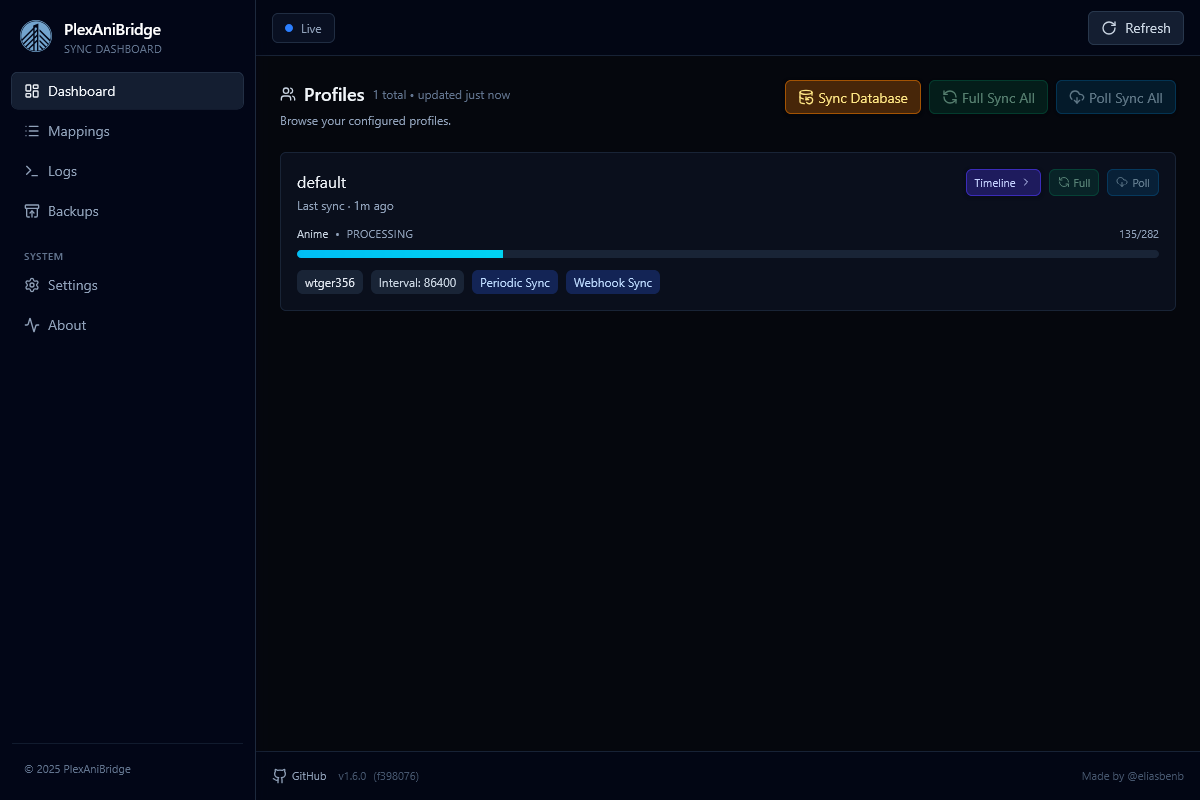
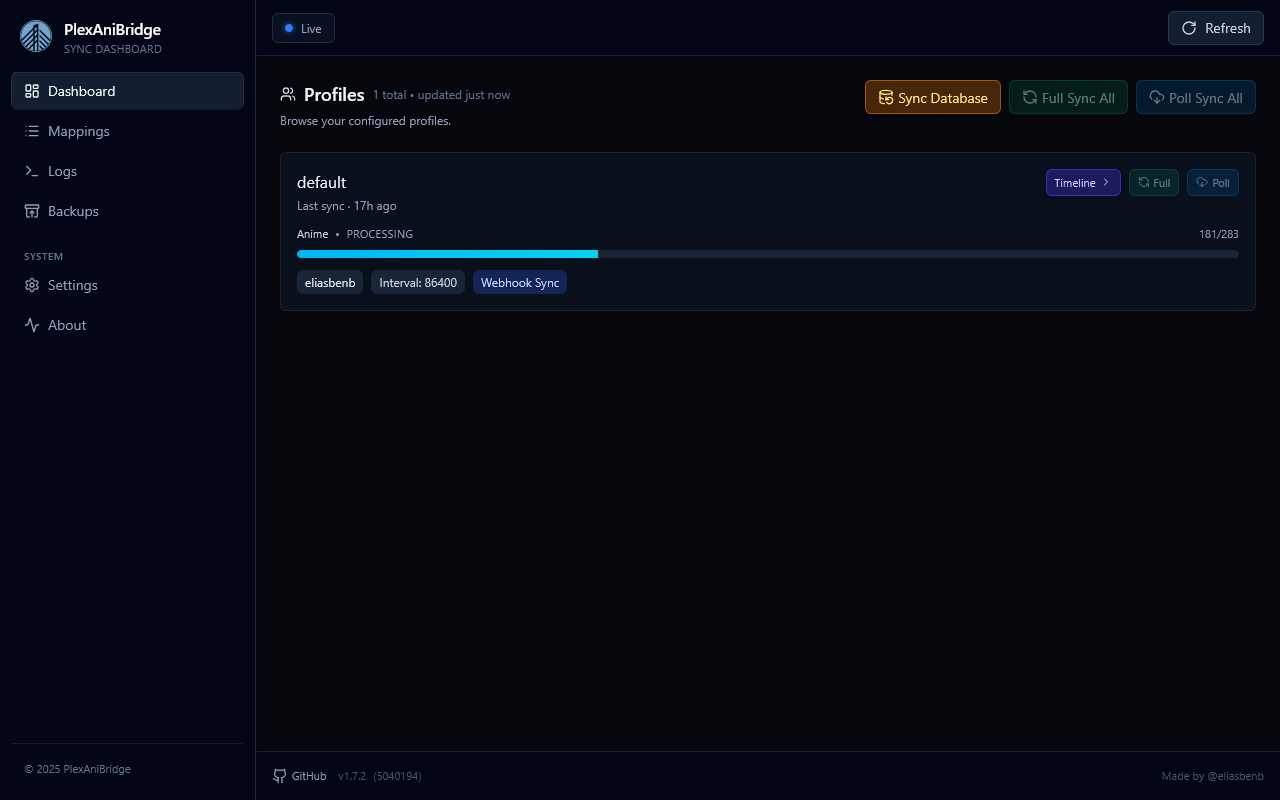
docs: Screenshots for v1.7.2

diff --git a/docs/web/screenshots.md b/docs/web/screenshots.md
@@ -18,3 +18,7 @@ icon: material/monitor-shimmer
 ## Logs
 
 ![Logs Screenshot](../img/screenshots/logs.png)
+
+# Backups
+
+![Backups Screenshot](../img/screenshots/backups.png)
